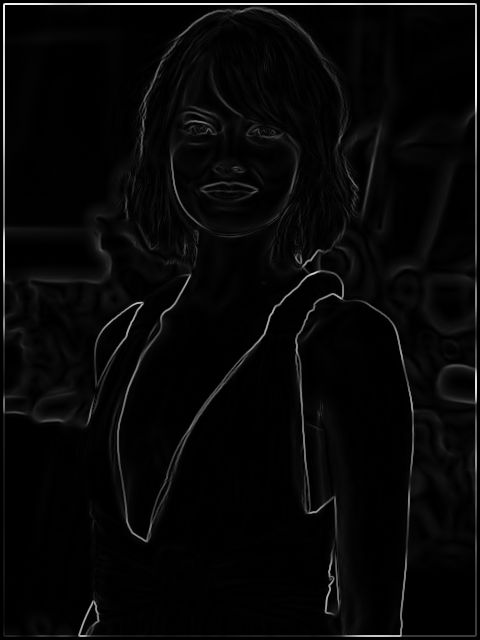
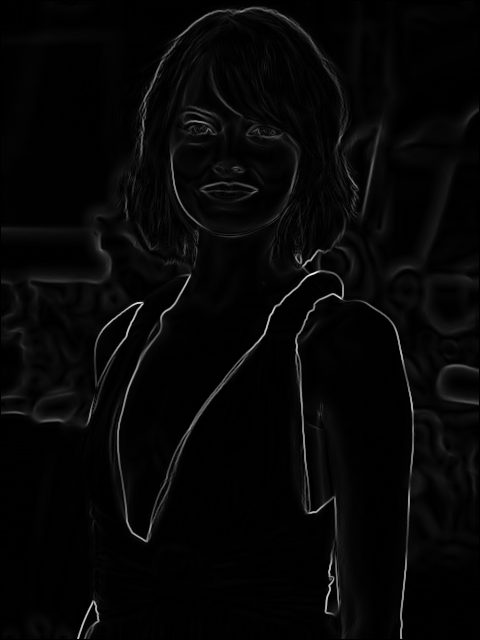
improvement: change blur radius

diff --git a/main.cpp b/main.cpp
@@ -241,7 +241,7 @@ void start(int procID, int nproc, int argc, char* argv[]){
 
     FreeImage_ConvertToRawBits(src, IMAGE, pitch, bpp, 0, 0, 0);
 
-    applyBilateralFilter(src, dst, width, height, pitch, 5, 30.f, 20.f);
+    applyBilateralFilter(src, dst, width, height, pitch, 9, 30.f, 20.f);
     saveImage(filepath, dst, "-1-bilateral");
 
     src = dst;
